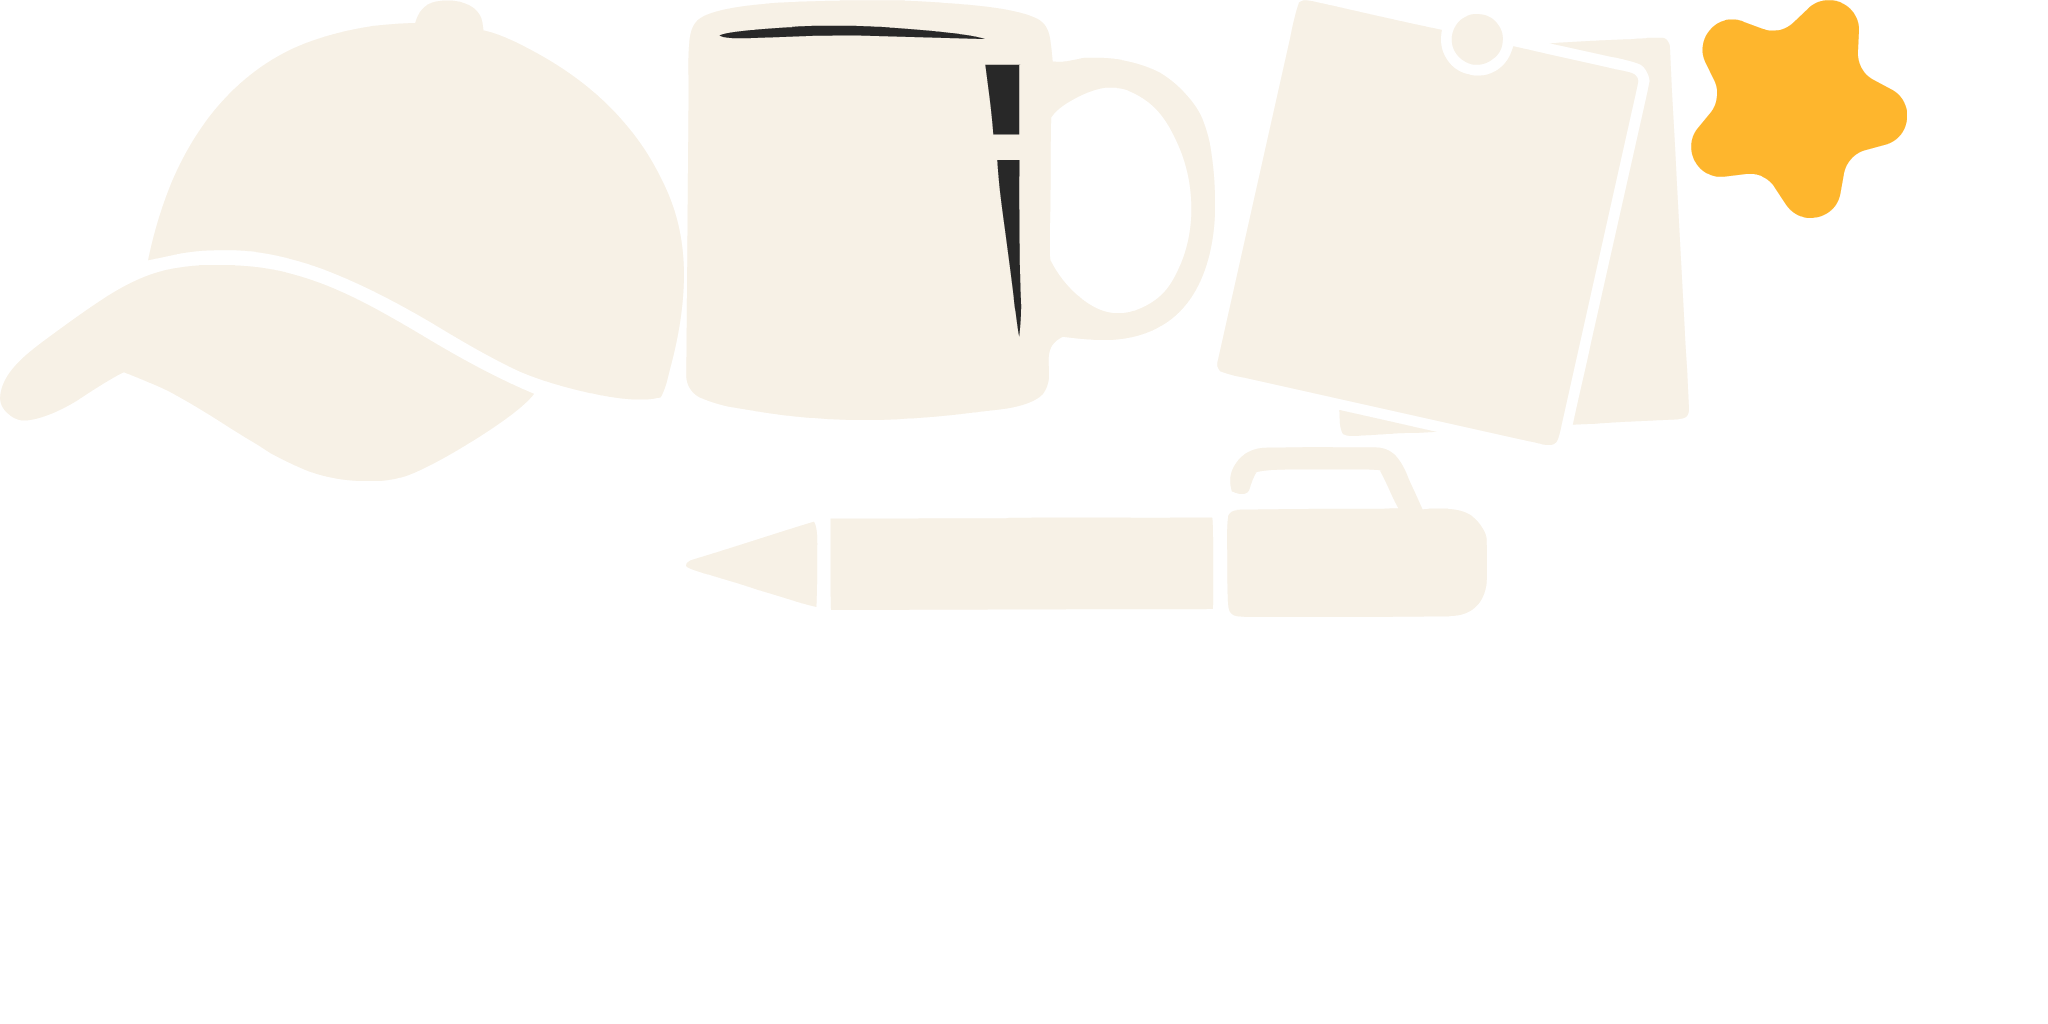
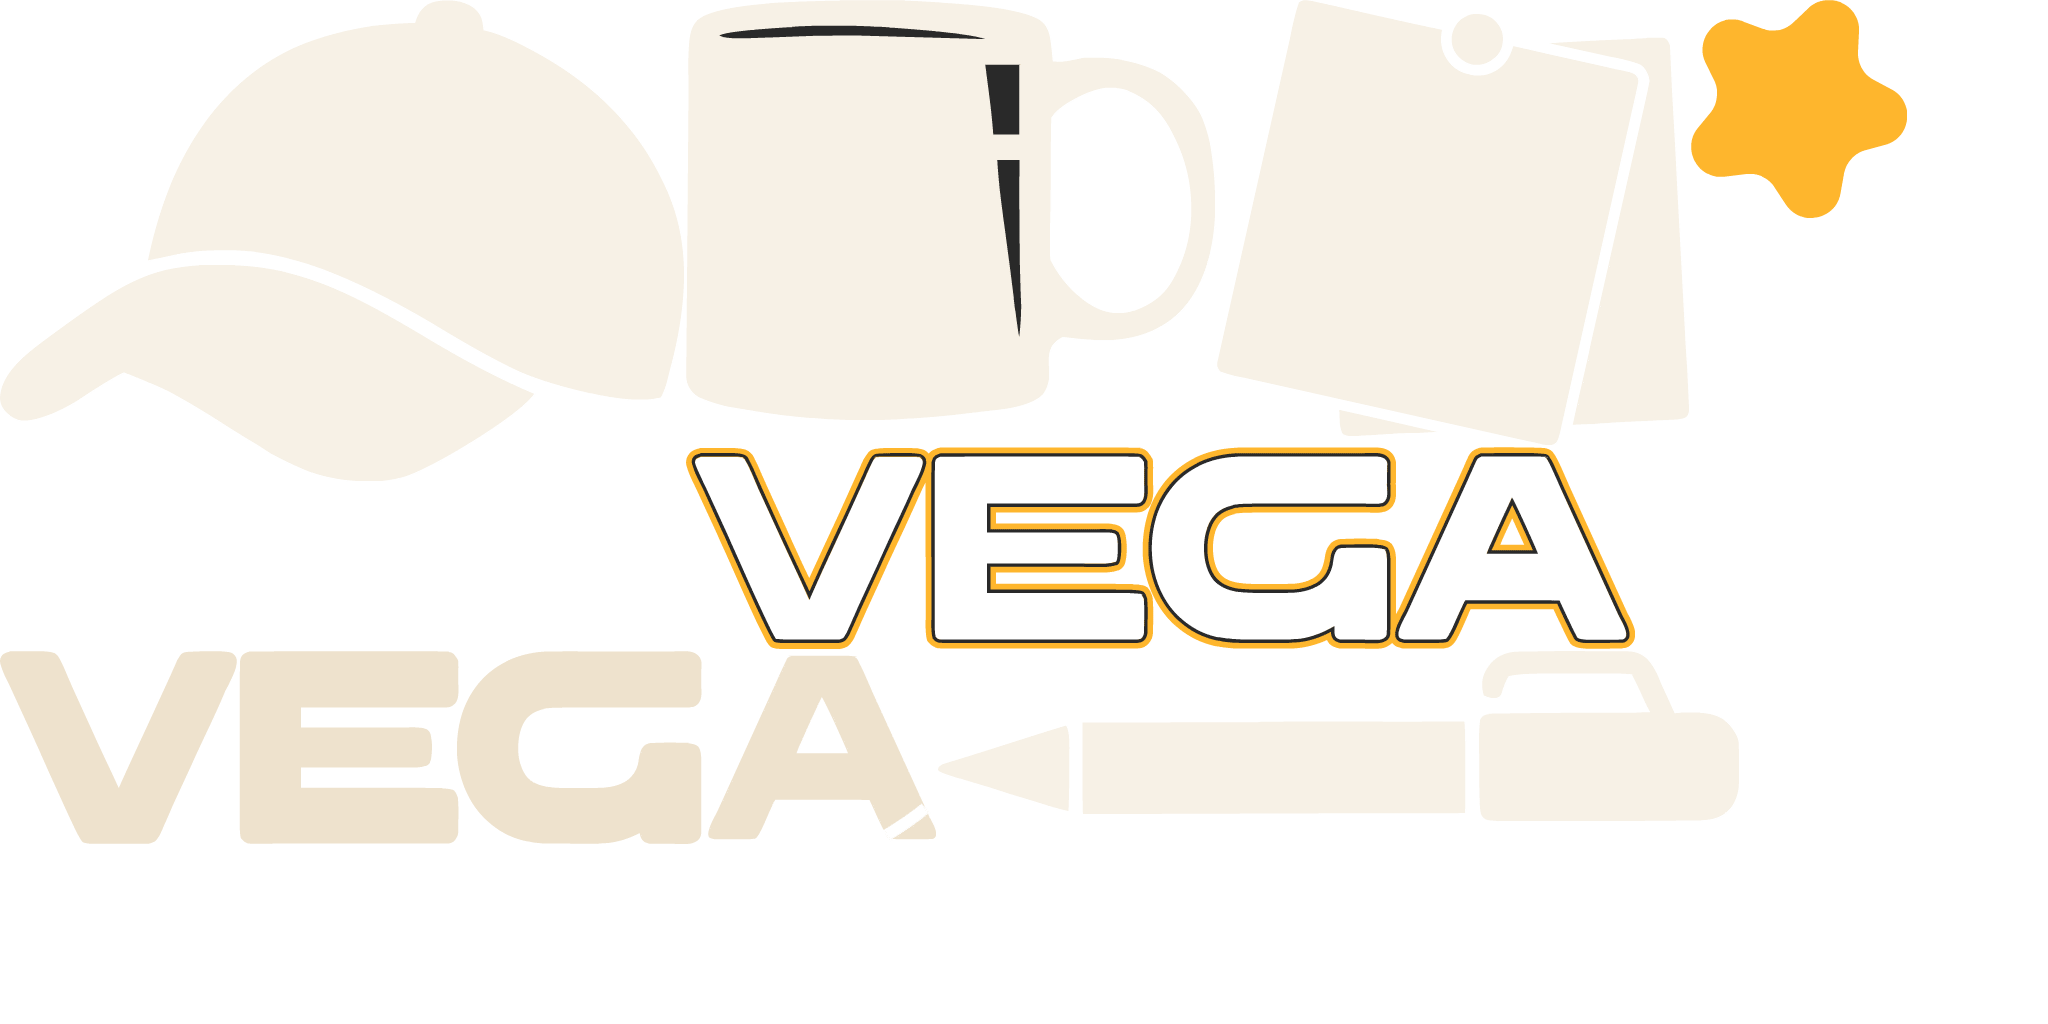
03

Changed region(s): [[0.0, 0.4375, 0.875, 0.8438]]

diff --git a/roleta.js b/roleta.js
@@ -6,7 +6,7 @@ lib.ssMetadata = [
 		{name:"roleta_atlas_1", frames: [[0,0,2023,830],[0,832,2023,830]]},
 		{name:"roleta_atlas_2", frames: [[0,0,2023,830],[0,832,2023,830]]},
 		{name:"roleta_atlas_3", frames: [[0,1078,1653,537],[0,0,1812,537],[0,539,1743,537]]},
-		{name:"roleta_atlas_4", frames: [[1691,0,216,218],[686,0,529,420],[686,447,801,170],[0,0,684,481],[1217,0,472,445]]}
+		{name:"roleta_atlas_4", frames: [[1691,0,216,218],[686,0,529,420],[938,651,801,170],[0,0,684,481],[1217,0,472,445],[686,447,949,202],[0,651,936,193]]}
 ];
 
 
@@ -195,19 +195,21 @@ p.nominalBounds = new cjs.Rectangle(0,0,2997,537);
 (lib.CachedBmp_3 = function() {
 	this.initialize(img.CachedBmp_3);
 }).prototype = p = new cjs.Bitmap();
-p.nominalBounds = new cjs.Rectangle(0,0,4,7694);
+p.nominalBounds = new cjs.Rectangle(0,0,4,2167);
 
 
 (lib.CachedBmp_2 = function() {
-	this.initialize(img.CachedBmp_2);
-}).prototype = p = new cjs.Bitmap();
-p.nominalBounds = new cjs.Rectangle(0,0,3375,718);
+	this.initialize(ss["roleta_atlas_4"]);
+	this.gotoAndStop(5);
+}).prototype = p = new cjs.Sprite();
+
 
 
 (lib.CachedBmp_1 = function() {
-	this.initialize(img.CachedBmp_1);
-}).prototype = p = new cjs.Bitmap();
-p.nominalBounds = new cjs.Rectangle(0,0,3327,686);// helper functions:
+	this.initialize(ss["roleta_atlas_4"]);
+	this.gotoAndStop(6);
+}).prototype = p = new cjs.Sprite();
+// helper functions:
 
 function mc_symbol_clone() {
 	var clone = this._cloneProps(new this.constructor(this.mode, this.startPosition, this.loop, this.reversed));
@@ -1260,7 +1262,7 @@ if (reversed == null) { reversed = false; }
 
 	// setores
 	this.shape_23 = new cjs.Shape();
[2 lines of base64/hex data omitted]
 	this.shape_23.setTransform(945.5,945.475);
 
 	this.shape_24 = new cjs.Shape();
@@ -2004,136 +2006,134 @@ if (reversed == null) { reversed = false; }
 	// frame
 	this.shape = new cjs.Shape();
[1 lines of base64/hex data omitted]
-	this.shape.setTransform(1080.025,1920.175);
+	this.shape.setTransform(303.757,540.0492,0.2813,0.2813);
 
 	this.timeline.addTween(cjs.Tween.get(this.shape).wait(1));
 
 	// resultado
 	this.resultado = new lib.resultado();
 	this.resultado.name = "resultado";
-	this.resultado.setTransform(1073.15,1046.15,1,1,0,0,0,505.9,68.3);
+	this.resultado.setTransform(301.8,294.25,0.2813,0.2813,0,0,0,505.9,68.5);
 
 	this.timeline.addTween(cjs.Tween.get(this.resultado).wait(1));
 
 	// astronaut
 	this.instance = new lib.astronaut();
-	this.instance.setTransform(1079.95,807.5,1,1,0,0,0,139.8,131);
+	this.instance.setTransform(303.75,227.1,0.2813,0.2813,0,0,0,139.9,131);
 
 	this.timeline.addTween(cjs.Tween.get(this.instance).wait(1));
 
 	// ponteiro
 	this.ponteiro = new lib.ponteiro();
 	this.ponteiro.name = "ponteiro";
-	this.ponteiro.setTransform(1080.05,699.05,1,1,0,0,0,4.9,-163.2);
+	this.ponteiro.setTransform(303.75,196.6,0.2813,0.2813,0,0,0,5,-163.2);
 	this.ponteiro.shadow = new cjs.Shadow("rgba(0,0,0,1)",0,12,52);
 
 	this.timeline.addTween(cjs.Tween.get(this.ponteiro).wait(1));
 
 	// lettering
 	this.instance_1 = new lib.letteringroleta("synched",0);
-	this.instance_1.setTransform(1092.05,286.6,1,1,0,0,0,373.8,85.4);
+	this.instance_1.setTransform(307.15,80.6,0.2813,0.2813,0,0,0,373.9,85.5);
 
 	this.timeline.addTween(cjs.Tween.get(this.instance_1).wait(1));
 
 	// lettering
 	this.instance_2 = new lib.letteringblur();
-	this.instance_2.setTransform(1077.7,537.2,1,1,0,0,0,798.2,86.8);
+	this.instance_2.setTransform(303.1,151.1,0.2813,0.2813,0,0,0,798.2,87);
 	this.instance_2.filters = [new cjs.BlurFilter(80, 80, 3)];
 	this.instance_2.cache(-2,-2,1601,178);
 
 	this.instance_3 = new lib.orbitcircle("synched",0);
-	this.instance_3.setTransform(298.2,511.65,1,1,0,0,0,43,43);
+	this.instance_3.setTransform(83.85,143.9,0.2813,0.2813,0,0,0,43,43);
 
 	this.instance_4 = new lib.orbita("synched",0);
-	this.instance_4.setTransform(1117.05,525.3,1,0.8391,14.2086,0,0,954.7,1605.6);
+	this.instance_4.setTransform(314.2,147.7,0.2812,0.236,14.2079,0,0,954.8,1605.5);
 
 	this.instance_5 = new lib.CachedBmp_2();
-	this.instance_5.setTransform(271.5,442.4,0.5,0.5);
+	this.instance_5.setTransform(76.3,124.4,0.5,0.5);
 
 	this.instance_6 = new lib.CachedBmp_1();
-	this.instance_6.setTransform(279.5,450.4,0.5,0.5);
+	this.instance_6.setTransform(78.6,126.65,0.5,0.5);
 
 	this.timeline.addTween(cjs.Tween.get({}).to({state:[{t:this.instance_6},{t:this.instance_5},{t:this.instance_4},{t:this.instance_3},{t:this.instance_2}]}).wait(1));
 
 	// V
 	this.instance_7 = new lib.V();
-	this.instance_7.setTransform(1080.75,1962.15,1,1,0,0,0,191.4,165.8);
+	this.instance_7.setTransform(303.95,551.85,0.2813,0.2813,0,0,0,191.5,165.8);
 
 	this.shape_1 = new cjs.Shape();
 	this.shape_1.graphics.f().s("#C4BFB7").ss(2,0,0,1).p("EAjeAAAQAAOsqZKZQqZKZusAAQurAAqZqZQqZqZAAusQAAurKZqZQKZqZOrAAQOsAAKZKZQKZKZAAOrg");
-	this.shape_1.setTransform(1079.925,1920.025);
+	this.shape_1.setTransform(303.7289,540.007,0.2813,0.2813);
 
 	this.instance_8 = new lib.starcenter();
-	this.instance_8.setTransform(1077.8,1919.05,1,1,0,0,0,263.1,286.6);
+	this.instance_8.setTransform(303.15,539.7,0.2813,0.2813,0,0,0,263.3,286.6);
 
 	this.timeline.addTween(cjs.Tween.get({}).to({state:[{t:this.instance_8},{t:this.shape_1},{t:this.instance_7}]}).wait(1));
 
 	// roleta
 	this.roleta = new lib.roleta_1();
 	this.roleta.name = "roleta";
-	this.roleta.setTransform(1080,1920,1,1,0,0,0,945.5,945.5);
+	this.roleta.setTransform(303.75,540,0.2813,0.2813,0,0,0,945.6,945.6);
 
 	this.timeline.addTween(cjs.Tween.get(this.roleta).wait(1));
 
 	// btnSpin
 	this.btnSpin = new lib.btnSpin();
 	this.btnSpin.name = "btnSpin";
-	this.btnSpin.setTransform(1081.05,3357.5,1,1,0,0,0,437.2,89.7);
+	this.btnSpin.setTransform(304.05,944.3,0.2813,0.2813,0,0,0,437.4,89.8);
 
 	this.shape_2 = new cjs.Shape();
-	this.shape_2.graphics.f().s("#000000").ss(1,1,1).p("EhETgOAMCInAAAIAAcBMiInAAAg");
-	this.shape_2.setTransform(1081.075,3357.5);
+	this.shape_2.graphics.f().s("#000000").ss(1,1,1).p("AzNj8MAmbAAAIAAH5MgmbAAAg");
+	this.shape_2.setTransform(304.05,944.3);
 
 	this.timeline.addTween(cjs.Tween.get({}).to({state:[{t:this.shape_2},{t:this.btnSpin}]}).wait(1));
 
 	// BG
 	this.instance_9 = new lib.circleyellow("synched",0);
-	this.instance_9.setTransform(1080.05,1920,0.9665,0.9665,0,0,0,1008.1,1008.1);
+	this.instance_9.setTransform(303.75,540,0.2718,0.2718,0,0,0,1008.2,1008.2);
 
 	this.instance_10 = new lib.star_BG();
-	this.instance_10.setTransform(1079.95,1920.05,1,1,0,0,0,1088.5,1078.7);
+	this.instance_10.setTransform(303.75,540,0.2813,0.2813,0,0,0,1088.5,1078.8);
 
 	this.instance_11 = new lib.stars("synched",0);
-	this.instance_11.setTransform(1062.5,501.45,1,1,0,0,0,1206.7,690.2);
+	this.instance_11.setTransform(298.85,141.05,0.2813,0.2813,0,0,0,1206.8,690.1);
 
 	this.instance_12 = new lib.CachedBmp_3();
-	this.instance_12.setTransform(1086.25,-9.75,0.5,0.5);
+	this.instance_12.setTransform(304.8,-3.45,0.5,0.5);
 
 	this.timeline.addTween(cjs.Tween.get({}).to({state:[{t:this.instance_12},{t:this.instance_11},{t:this.instance_10},{t:this.instance_9}]}).wait(1));
 
 	this._renderFirstFrame();
 
 }).prototype = p = new lib.AnMovieClip();
-p.nominalBounds = new cjs.Rectangle(935.8,1731.3,1333.5000000000002,2108.8);
+p.nominalBounds = new cjs.Rectangle(263,487,382.6,593.0999999999999);
 // library properties:
 lib.properties = {
 	id: 'C78B1320A8BB5A4A97A1E0BAA6F5A4AA',
-	width: 2160,
-	height: 3840,
+	width: 607,
+	height: 1080,
 	fps: 60,
 	color: "#2C2C2C",
 	opacity: 1.00,
 	manifest: [
-		{src:"images/CachedBmp_28.png?1774555653141", id:"CachedBmp_28"},
-		{src:"images/CachedBmp_26.png?1774555653141", id:"CachedBmp_26"},
-		{src:"images/CachedBmp_25.png?1774555653141", id:"CachedBmp_25"},
-		{src:"images/CachedBmp_24.png?1774555653141", id:"CachedBmp_24"},
-		{src:"images/CachedBmp_23.png?1774555653141", id:"CachedBmp_23"},
-		{src:"images/CachedBmp_22.png?1774555653141", id:"CachedBmp_22"},
-		{src:"images/CachedBmp_21.png?1774555653141", id:"CachedBmp_21"},
-		{src:"images/CachedBmp_20.png?1774555653141", id:"CachedBmp_20"},
-		{src:"images/CachedBmp_11.png?1774555653141", id:"CachedBmp_11"},
-		{src:"images/CachedBmp_10.png?1774555653141", id:"CachedBmp_10"},
-		{src:"images/CachedBmp_9.png?1774555653142", id:"CachedBmp_9"},
-		{src:"images/CachedBmp_6.png?1774555653142", id:"CachedBmp_6"},
-		{src:"images/CachedBmp_5.png?1774555653142", id:"CachedBmp_5"},
-		{src:"images/CachedBmp_3.png?1774555653142", id:"CachedBmp_3"},
-		{src:"images/CachedBmp_2.png?1774555653142", id:"CachedBmp_2"},
-		{src:"images/CachedBmp_1.png?1774555653142", id:"CachedBmp_1"},
-		{src:"images/roleta_atlas_1.png?1774555653084", id:"roleta_atlas_1"},
-		{src:"images/roleta_atlas_2.png?1774555653085", id:"roleta_atlas_2"},
-		{src:"images/roleta_atlas_3.png?1774555653085", id:"roleta_atlas_3"},
-		{src:"images/roleta_atlas_4.png?1774555653085", id:"roleta_atlas_4"}
+		{src:"images/CachedBmp_28.png?1775591315105", id:"CachedBmp_28"},
+		{src:"images/CachedBmp_26.png?1775591315105", id:"CachedBmp_26"},
+		{src:"images/CachedBmp_25.png?1775591315105", id:"CachedBmp_25"},
+		{src:"images/CachedBmp_24.png?1775591315105", id:"CachedBmp_24"},
+		{src:"images/CachedBmp_23.png?1775591315105", id:"CachedBmp_23"},
+		{src:"images/CachedBmp_22.png?1775591315105", id:"CachedBmp_22"},
+		{src:"images/CachedBmp_21.png?1775591315105", id:"CachedBmp_21"},
+		{src:"images/CachedBmp_20.png?1775591315105", id:"CachedBmp_20"},
+		{src:"images/CachedBmp_11.png?1775591315105", id:"CachedBmp_11"},
+		{src:"images/CachedBmp_10.png?1775591315105", id:"CachedBmp_10"},
+		{src:"images/CachedBmp_9.png?1775591315105", id:"CachedBmp_9"},
+		{src:"images/CachedBmp_6.png?1775591315105", id:"CachedBmp_6"},
+		{src:"images/CachedBmp_5.png?1775591315105", id:"CachedBmp_5"},
+		{src:"images/CachedBmp_3.png?1775591315105", id:"CachedBmp_3"},
+		{src:"images/roleta_atlas_1.png?1775591315038", id:"roleta_atlas_1"},
+		{src:"images/roleta_atlas_2.png?1775591315038", id:"roleta_atlas_2"},
+		{src:"images/roleta_atlas_3.png?1775591315038", id:"roleta_atlas_3"},
+		{src:"images/roleta_atlas_4.png?1775591315038", id:"roleta_atlas_4"}
 	],
 	preloads: []
 };

diff --git a/index.html b/index.html
@@ -8,7 +8,7 @@
 <title>Roleta VEGA [test]</title>
 <!-- write your code here -->
 <script src="https://code.createjs.com/1.0.0/createjs.min.js"></script>
-<script src="roleta.js?1774555653204"></script>
+<script src="roleta.js?1775591315242"></script>
 <script>
 var canvas, stage, exportRoot, anim_container, dom_overlay_container, fnStartAnimation;
 function init() {
@@ -52,13 +52,13 @@ function handleComplete(evt,comp) {
 </script>
 <!-- write your code here -->
 <style>
-	body { background-color: #2C2C2C; display: flex; justify-content: center; align-items: center; zoom: 0.25; }
+	body { background-color: #2C2C2C; display: flex; justify-content: center; align-items: center; zoom: 1; }
 </style>
 </head>
 <body onload="init();" style="margin:0px;">
-	<div id="animation_container" style="background-color:rgba(44, 44, 44, 1.00); width:2160px; height:3840px">
-		<canvas id="canvas" width="2160px" height="3840px" style="position: absolute; display: block; background-color:rgba(44, 44, 44, 1.00);"></canvas>
-		<div id="dom_overlay_container" style="pointer-events:none; overflow:hidden; width:2160px; height:3840px; position: absolute; left: 0px; top: 0px; display: block;">
+	<div id="animation_container" style="background-color:rgba(44, 44, 44, 1.00); width:607px; height:1080px">
+		<canvas id="canvas" width="607" height="1080" style="position: absolute; display: block; background-color:rgba(44, 44, 44, 1.00);"></canvas>
+		<div id="dom_overlay_container" style="pointer-events:none; overflow:hidden; width:607px; height:1080px; position: absolute; left: 0px; top: 0px; display: block;">
 		</div>
 	</div>
 </body>
